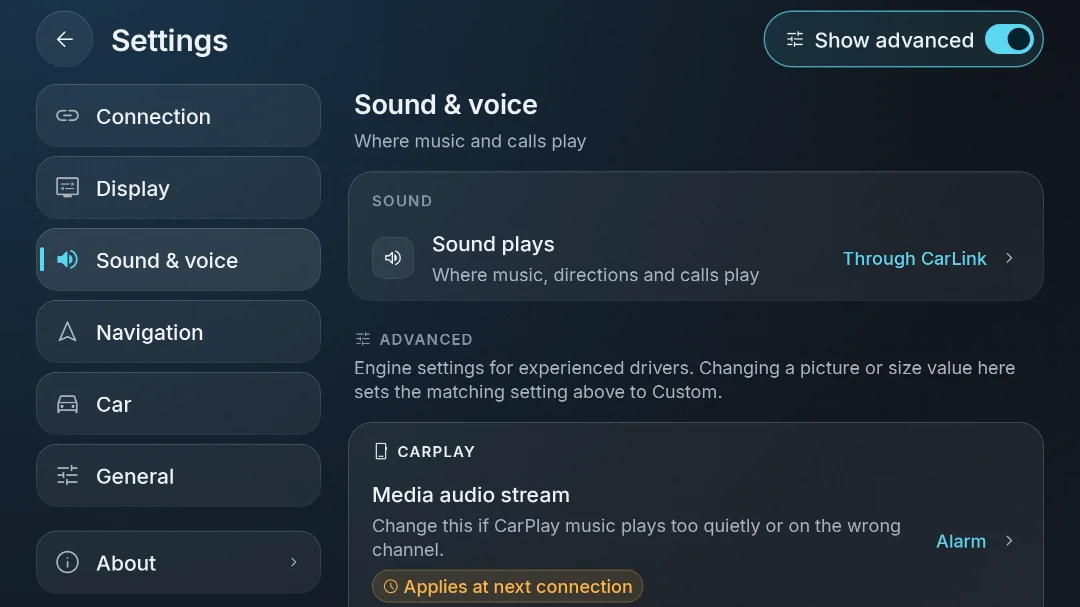
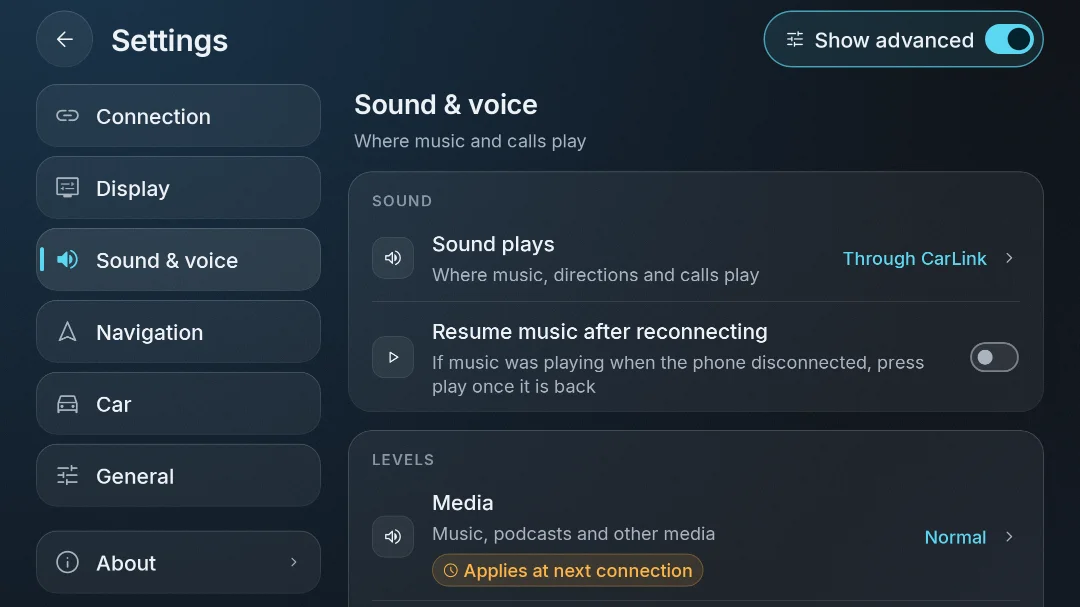
Show the audio settings and a call audio test
Settings > Sound gets Resume music, a Levels group (Media, Navigation, Calls,
Call audio plays as) and a Microphone level. Diagnostics gets Test call audio:
5 s from the voice-communication microphone at the chosen level, played back
on the stream calls use, with the peak level, clipping or silence reported.
It is disabled while a session holds the microphone.

Changed region(s): [[0.3361, 0.8007, 0.9167, 1.0], [0.3056, 0.5338, 0.9472, 0.6524], [0.3361, 0.682, 0.9472, 0.771]]

diff --git a/app/src/main/java/com/carlink/app/ui/diagnostics/CallAudioTestCard.kt b/app/src/main/java/com/carlink/app/ui/diagnostics/CallAudioTestCard.kt
@@ -1,0 +1,91 @@
+package com.carlink.app.ui.diagnostics
+
+import android.Manifest
+import android.content.pm.PackageManager
+import androidx.compose.foundation.layout.Column
+import androidx.compose.foundation.layout.Row
+import androidx.compose.foundation.layout.Spacer
+import androidx.compose.foundation.layout.fillMaxWidth
+import androidx.compose.foundation.layout.height
+import androidx.compose.foundation.layout.padding
+import androidx.compose.foundation.layout.width
+import androidx.compose.material3.MaterialTheme
+import androidx.compose.material3.Text
+import androidx.compose.runtime.Composable
+import androidx.compose.runtime.getValue
+import androidx.compose.runtime.mutableStateOf
+import androidx.compose.runtime.remember
+import androidx.compose.runtime.rememberCoroutineScope
+import androidx.compose.runtime.setValue
+import androidx.compose.ui.Alignment
+import androidx.compose.ui.Modifier
+import androidx.compose.ui.platform.LocalContext
+import androidx.compose.ui.res.stringResource
+import androidx.compose.ui.semantics.LiveRegionMode
+import androidx.compose.ui.semantics.liveRegion
+import androidx.compose.ui.semantics.semantics
+import androidx.compose.ui.unit.dp
+import androidx.core.content.ContextCompat
+import com.carlink.app.R
+import com.carlink.app.diagnostics.CallAudioTest
+import com.carlink.app.ui.premium.GlassButton
+import com.carlink.app.ui.settings.GlassGroup
+import com.carlink.app.ui.settings.GroupHeader
+import com.carlink.app.ui.settings.RowGlyph
+import com.carlink.app.ui.settings.isCar
+import com.carlink.app.ui.settings.rowPadding
+import com.carlink.core.settings.UnifiedSettingsStore
+import kotlinx.coroutines.launch
+
+/** Diagnostics › Test call audio ([CallAudioTest]); disabled while a session holds the microphone. */
+@Composable
+internal fun CallAudioTestCard(sessionRunning: Boolean) {
+    val context = LocalContext.current
+    val scope = rememberCoroutineScope()
+    var running by remember { mutableStateOf(false) }
+    var status by remember { mutableStateOf<Int?>(null) }
+    var peak by remember { mutableStateOf(0) }
+    GlassGroup(header = { GroupHeader(stringResource(R.string.carlink_diag_call_test), icon = R.drawable.carlink_ic_mic) }) {
+        Row(Modifier.fillMaxWidth().padding(rowPadding), verticalAlignment = Alignment.CenterVertically) {
+            RowGlyph(R.drawable.carlink_ic_graphic_eq, tint = MaterialTheme.colorScheme.onSurfaceVariant)
+            Spacer(Modifier.width(if (isCar) 24.dp else 16.dp))
+            Column(Modifier.weight(1f)) {
+                Text(stringResource(R.string.carlink_diag_call_test_detail), style = MaterialTheme.typography.bodyMedium,
+                    color = MaterialTheme.colorScheme.onSurfaceVariant)
+                val shown = if (sessionRunning && !running) R.string.carlink_diag_call_test_busy else status
+                if (shown != null) {
+                    Spacer(Modifier.height(8.dp))
+                    Text(if (shown == R.string.carlink_diag_call_test_result) stringResource(shown, peak) else stringResource(shown),
+                        style = MaterialTheme.typography.titleMedium, color = MaterialTheme.colorScheme.onSurface,
+                        modifier = Modifier.semantics { liveRegion = LiveRegionMode.Polite })
+                }
+            }
+            Spacer(Modifier.width(16.dp))
+            if (!running && !sessionRunning) GlassButton(stringResource(R.string.carlink_diag_call_test_start), onClick = {
+                if (ContextCompat.checkSelfPermission(context, Manifest.permission.RECORD_AUDIO) != PackageManager.PERMISSION_GRANTED) {
+                    status = R.string.carlink_diag_call_test_permission
+                    return@GlassButton
+                }
+                val settings = UnifiedSettingsStore(context).load()
+                running = true
+                scope.launch {
+                    val result = CallAudioTest.run(settings.micGainDb, settings.callAudioAsMedia) { phase ->
+                        status = when (phase) {
+                            CallAudioTest.Phase.RECORDING -> R.string.carlink_diag_call_test_recording
+                            CallAudioTest.Phase.PLAYING -> R.string.carlink_diag_call_test_playing
+                        }
+                    }
+                    status = when (result) {
+                        is CallAudioTest.Result.Done -> {
+                            peak = result.peakPercent
+                            if (result.clipped) R.string.carlink_diag_call_test_clipped else R.string.carlink_diag_call_test_result
+                        }
+                        CallAudioTest.Result.Silent -> R.string.carlink_diag_call_test_silent
+                        CallAudioTest.Result.Failed -> R.string.carlink_diag_call_test_failed
+                    }
+                    running = false
+                }
+            }, icon = R.drawable.carlink_ic_mic)
+        }
+    }
+}

diff --git a/app/src/main/java/com/carlink/app/diagnostics/CallAudioTest.kt b/app/src/main/java/com/carlink/app/diagnostics/CallAudioTest.kt
@@ -1,0 +1,104 @@
+package com.carlink.app.diagnostics
+
+import android.annotation.SuppressLint
+import android.media.AudioAttributes
+import android.media.AudioFormat
+import android.media.AudioRecord
+import android.media.AudioTrack
+import android.media.MediaRecorder
+import com.carlink.core.settings.AudioLevels
+import kotlinx.coroutines.Dispatchers
+import kotlinx.coroutines.delay
+import kotlinx.coroutines.ensureActive
+import kotlinx.coroutines.withContext
+import kotlin.math.abs
+
+/**
+ * Diagnostics › Test call audio: records [SECONDS] s from the source CarPlay calls record with
+ * (VOICE_COMMUNICATION), applies the driver's microphone level as the engines do, and plays it
+ * back on the stream calls play on (a call, or media with "Call audio plays as: Media").
+ */
+object CallAudioTest {
+    const val SECONDS = 5
+    private const val RATE = 16_000
+
+    enum class Phase { RECORDING, PLAYING }
+
+    sealed interface Result {
+        /** [peakPercent] of full scale after the gain; [clipped] when it reached full scale. */
+        data class Done(val peakPercent: Int, val clipped: Boolean) : Result
+        data object Silent : Result
+        data object Failed : Result
+    }
+
+    @SuppressLint("MissingPermission") // The caller checks RECORD_AUDIO.
+    suspend fun run(micGainDb: Int, callsAsMedia: Boolean, onPhase: (Phase) -> Unit): Result = withContext(Dispatchers.IO) {
+        val min = AudioRecord.getMinBufferSize(RATE, AudioFormat.CHANNEL_IN_MONO, AudioFormat.ENCODING_PCM_16BIT)
+        if (min <= 0) return@withContext Result.Failed
+        val pcm = ByteArray(RATE * 2 * SECONDS)
+        val recorder = runCatching {
+            AudioRecord(MediaRecorder.AudioSource.VOICE_COMMUNICATION, RATE, AudioFormat.CHANNEL_IN_MONO,
+                AudioFormat.ENCODING_PCM_16BIT, maxOf(min, 4096))
+        }.getOrNull()
+        if (recorder == null || recorder.state != AudioRecord.STATE_INITIALIZED) {
+            recorder?.release()
+            return@withContext Result.Failed
+        }
+        try {
+            withContext(Dispatchers.Main) { onPhase(Phase.RECORDING) }
+            recorder.startRecording()
+            var filled = 0
+            while (filled < pcm.size) {
+                ensureActive()
+                val read = recorder.read(pcm, filled, minOf(pcm.size - filled, 3200))
+                if (read < 0) return@withContext Result.Failed
+                filled += read
+            }
+        } catch (_: IllegalStateException) {
+            return@withContext Result.Failed
+        } finally {
+            runCatching { recorder.stop() }
+            recorder.release()
+        }
+        AudioLevels.scalePcm16(pcm, 0, pcm.size, AudioLevels.linear(micGainDb))
+        val peak = peak(pcm)
+        if (peak < SILENT_PEAK) return@withContext Result.Silent
+
+        withContext(Dispatchers.Main) { onPhase(Phase.PLAYING) }
+        val track = runCatching {
+            AudioTrack.Builder()
+                .setAudioAttributes(AudioAttributes.Builder()
+                    .setUsage(if (callsAsMedia) AudioAttributes.USAGE_MEDIA else AudioAttributes.USAGE_VOICE_COMMUNICATION)
+                    .setContentType(AudioAttributes.CONTENT_TYPE_SPEECH).build())
+                .setAudioFormat(AudioFormat.Builder().setSampleRate(RATE).setChannelMask(AudioFormat.CHANNEL_OUT_MONO)
+                    .setEncoding(AudioFormat.ENCODING_PCM_16BIT).build())
+                .setTransferMode(AudioTrack.MODE_STATIC)
+                .setBufferSizeInBytes(pcm.size)
+                .build()
+        }.getOrNull() ?: return@withContext Result.Failed
+        try {
+            track.write(pcm, 0, pcm.size)
+            track.play()
+            delay(SECONDS * 1000L + 300)
+        } finally {
+            runCatching { track.stop() }
+            track.release()
+        }
+        Result.Done(peak * 100 / Short.MAX_VALUE, clipped = peak >= CLIPPED_PEAK)
+    }
+
+    /** The largest absolute sample of 16-bit little-endian [pcm]. */
+    fun peak(pcm: ByteArray): Int {
+        var peak = 0
+        var i = 0
+        while (i + 1 < pcm.size) {
+            peak = maxOf(peak, abs((pcm[i + 1].toInt() shl 8) or (pcm[i].toInt() and 0xff)))
+            i += 2
+        }
+        return peak
+    }
+
+    /** About -50 dBFS: below this the microphone heard nothing useful. */
+    private const val SILENT_PEAK = 100
+    private const val CLIPPED_PEAK = 32_600
+}

diff --git a/app/src/main/java/com/carlink/app/ui/settings/SettingsPages.kt b/app/src/main/java/com/carlink/app/ui/settings/SettingsPages.kt
@@ -55,7 +55,7 @@ internal fun CategoryPage(
         when (category) {
             SettingsCategory.CONNECTION -> ConnectionEssentials(ui, actions, openSheet)
             SettingsCategory.DISPLAY -> DisplayEssentials(ui, openSheet)
-            SettingsCategory.SOUND -> SoundEssentials(ui, openSheet)
+            SettingsCategory.SOUND -> SoundEssentials(ui, actions, openSheet)
             SettingsCategory.NAVIGATION -> NavigationEssentials(ui, actions)
             SettingsCategory.CAR -> CarEssentials(ui, openSheet)
             SettingsCategory.GENERAL -> GeneralEssentials(ui, actions, openSheet, versionTaps, onVersionTap)
@@ -182,15 +182,50 @@ private fun DisplayEssentials(ui: SettingsUi, openSheet: (String) -> Unit) {
 }
 
 @Composable
-private fun SoundEssentials(ui: SettingsUi, openSheet: (String) -> Unit) {
-    val bluetooth = ui.unified.soundThroughCarBluetooth
+private fun SoundEssentials(ui: SettingsUi, actions: SettingsActions, openSheet: (String) -> Unit) {
+    val u = ui.unified
+    val bluetooth = u.soundThroughCarBluetooth
     GlassGroup(header = { GroupHeader(stringResource(R.string.carlink_settings_group_sound)) }) {
         ChoiceRow(stringResource(R.string.carlink_settings_sound),
             stringResource(if (bluetooth) R.string.carlink_settings_sound_bluetooth else R.string.carlink_settings_sound_carlink),
             { openSheet(SheetKey.of(EssentialSheet.SOUND)) }, description = stringResource(R.string.carlink_settings_sound_detail),
             icon = if (bluetooth) R.drawable.carlink_ic_bluetooth else R.drawable.carlink_ic_volume_up)
+        GroupDivider()
+        SwitchRow(stringResource(R.string.carlink_settings_resume_music), u.resumeMusic,
+            { on -> actions.update { it.copy(resumeMusic = on) } },
+            description = stringResource(R.string.carlink_settings_resume_music_detail), icon = R.drawable.carlink_ic_play_arrow)
+    }
+    GlassGroup(header = { GroupHeader(stringResource(R.string.carlink_settings_group_levels)) }) {
+        ChoiceRow(stringResource(R.string.carlink_settings_level_media), levelLabel(u.mediaLevelDb),
+            { openSheet(SheetKey.of(EssentialSheet.MEDIA_LEVEL)) }, description = stringResource(R.string.carlink_settings_level_media_detail),
+            icon = R.drawable.carlink_ic_volume_up, tags = { NextConnectionTag() })
+        GroupDivider()
+        ChoiceRow(stringResource(R.string.carlink_settings_level_navigation), levelLabel(u.navigationLevelDb),
+            { openSheet(SheetKey.of(EssentialSheet.NAVIGATION_LEVEL)) },
+            description = stringResource(R.string.carlink_settings_level_navigation_detail),
+            icon = R.drawable.carlink_ic_navigation, tags = { NextConnectionTag() })
+        GroupDivider()
+        ChoiceRow(stringResource(R.string.carlink_settings_level_calls), levelLabel(u.callLevelDb),
+            { openSheet(SheetKey.of(EssentialSheet.CALL_LEVEL)) }, description = stringResource(R.string.carlink_settings_level_calls_detail),
+            icon = R.drawable.carlink_ic_call, tags = { NextConnectionTag() })
+        GroupDivider()
+        ChoiceRow(stringResource(R.string.carlink_settings_call_stream),
+            stringResource(if (u.callAudioAsMedia) R.string.carlink_settings_call_stream_media else R.string.carlink_settings_call_stream_phone),
+            { openSheet(SheetKey.of(EssentialSheet.CALL_STREAM)) }, description = stringResource(R.string.carlink_settings_call_stream_detail),
+            icon = R.drawable.carlink_ic_phone_iphone, tags = { NextConnectionTag() })
+    }
+    GlassGroup(header = { GroupHeader(stringResource(R.string.carlink_settings_group_microphone)) }) {
+        ChoiceRow(stringResource(R.string.carlink_settings_mic_gain), levelLabel(u.micGainDb),
+            { openSheet(SheetKey.of(EssentialSheet.MIC_GAIN)) }, description = stringResource(R.string.carlink_settings_mic_gain_detail),
+            icon = R.drawable.carlink_ic_mic, tags = { NextConnectionTag() })
     }
 }
+
+/** "Normal" for 0 dB, else a signed dB value. */
+@Composable
+internal fun levelLabel(db: Int): String =
+    if (db == 0) stringResource(R.string.carlink_settings_level_normal)
+    else stringResource(R.string.carlink_settings_level_db, if (db > 0) "+$db" else "−${-db}")
 
 @Composable
 private fun NavigationEssentials(ui: SettingsUi, actions: SettingsActions) {

diff --git a/app/src/main/java/com/carlink/app/ui/settings/SettingsSheets.kt b/app/src/main/java/com/carlink/app/ui/settings/SettingsSheets.kt
@@ -65,6 +65,7 @@ import androidx.compose.ui.text.input.VisualTransformation
 import androidx.compose.ui.unit.dp
 import kotlinx.coroutines.launch
 import com.carlink.app.R
+import com.carlink.core.settings.AudioLevels
 import com.carlink.core.settings.Applies
 import com.carlink.core.settings.CarBrand
 import com.carlink.core.settings.VehicleProfile
@@ -193,6 +194,39 @@ internal fun SettingsSheetHost(key: String?, ui: SettingsUi, actions: SettingsAc
                     R.drawable.carlink_ic_bluetooth),
             ),
             u.soundThroughCarBluetooth, onSelect = { b -> select { it.copy(soundThroughCarBluetooth = b) } }, onDismiss = onDismiss,
+        )
+        EssentialSheet.MEDIA_LEVEL, EssentialSheet.NAVIGATION_LEVEL, EssentialSheet.CALL_LEVEL, EssentialSheet.MIC_GAIN -> {
+            val sheet = SheetKey.essential(key)!!
+            val (title, body, current) = when (sheet) {
+                EssentialSheet.MEDIA_LEVEL -> Triple(R.string.carlink_settings_level_media, R.string.carlink_settings_level_sheet_body, u.mediaLevelDb)
+                EssentialSheet.NAVIGATION_LEVEL ->
+                    Triple(R.string.carlink_settings_level_navigation, R.string.carlink_settings_level_sheet_body, u.navigationLevelDb)
+                EssentialSheet.CALL_LEVEL -> Triple(R.string.carlink_settings_level_calls, R.string.carlink_settings_level_sheet_body, u.callLevelDb)
+                else -> Triple(R.string.carlink_settings_mic_gain, R.string.carlink_settings_mic_gain_sheet_body, u.micGainDb)
+            }
+            val choices = if (sheet == EssentialSheet.MIC_GAIN) AudioLevels.MIC_DB else AudioLevels.PLAYBACK_DB
+            ChoiceSheet(stringResource(title), stringResource(body), true,
+                choices.map { Preset(it, levelLabel(it)) }, current,
+                onSelect = { db ->
+                    select {
+                        when (sheet) {
+                            EssentialSheet.MEDIA_LEVEL -> it.copy(mediaLevelDb = db)
+                            EssentialSheet.NAVIGATION_LEVEL -> it.copy(navigationLevelDb = db)
+                            EssentialSheet.CALL_LEVEL -> it.copy(callLevelDb = db)
+                            else -> it.copy(micGainDb = db)
+                        }
+                    }
+                }, onDismiss = onDismiss)
+        }
+        EssentialSheet.CALL_STREAM -> ChoiceSheet(
+            stringResource(R.string.carlink_settings_call_stream), stringResource(R.string.carlink_settings_call_stream_detail), true,
+            listOf(
+                Preset(false, stringResource(R.string.carlink_settings_call_stream_phone),
+                    stringResource(R.string.carlink_settings_call_stream_phone_detail), R.drawable.carlink_ic_call),
+                Preset(true, stringResource(R.string.carlink_settings_call_stream_media),
+                    stringResource(R.string.carlink_settings_call_stream_media_detail), R.drawable.carlink_ic_volume_up),
+            ),
+            u.callAudioAsMedia, onSelect = { b -> select { it.copy(callAudioAsMedia = b) } }, onDismiss = onDismiss,
         )
         EssentialSheet.APPEARANCE -> ChoiceSheet(
             stringResource(R.string.carlink_settings_appearance), stringResource(R.string.carlink_settings_appearance_detail), false,

diff --git a/app/src/main/java/com/carlink/app/ui/diagnostics/DiagnosticsScreen.kt b/app/src/main/java/com/carlink/app/ui/diagnostics/DiagnosticsScreen.kt
@@ -275,6 +275,7 @@ internal fun DiagnosticsContent(ui: DiagnosticsUi, actions: DiagnosticsActions, 
                     SessionCard(ui)
                     PhonesHealthCard(ui.health)
                     if (!checksFirst) ChecksCard(ui.checks, actions)
+                    CallAudioTestCard(ui.link.stage != LinkStage.IDLE)
                 }
                 Spacer(Modifier.width(dimens.gutter * 1.5f))
                 LogPanel(ui.log, filter, { filter = it }, actions::shareLog, actions::copyLog, actions::reportProblem,
@@ -294,6 +295,7 @@ internal fun DiagnosticsContent(ui: DiagnosticsUi, actions: DiagnosticsActions, 
                     } else {
                         SessionCard(ui); PhonesHealthCard(ui.health); ChecksCard(ui.checks, actions)
                     }
+                    CallAudioTestCard(ui.link.stage != LinkStage.IDLE)
                     LogPanel(ui.log, filter, { filter = it }, actions::shareLog, actions::copyLog, actions::reportProblem, Modifier.fillMaxWidth().height(logHeight))
                 }
             }

diff --git a/app/src/main/java/com/carlink/app/ui/settings/SettingsModel.kt b/app/src/main/java/com/carlink/app/ui/settings/SettingsModel.kt
@@ -155,6 +155,7 @@ internal val SettingsCategory.selectedIcon: Int
 internal enum class EssentialSheet {
     CONNECTION_METHOD, CAR_HOTSPOT, SAME_WIFI, PICTURE, INTERFACE_SIZE, DAY_NIGHT, NIGHT_START, NIGHT_END,
     DRIVING_SIDE, SOUND, APPEARANCE, LAYOUT, CARLINK_SIZE, RENDERING, CAR_BRAND, WHEEL_KEYS,
+    MEDIA_LEVEL, NAVIGATION_LEVEL, CALL_LEVEL, CALL_STREAM, MIC_GAIN,
 }
 
 internal object SheetKey {
